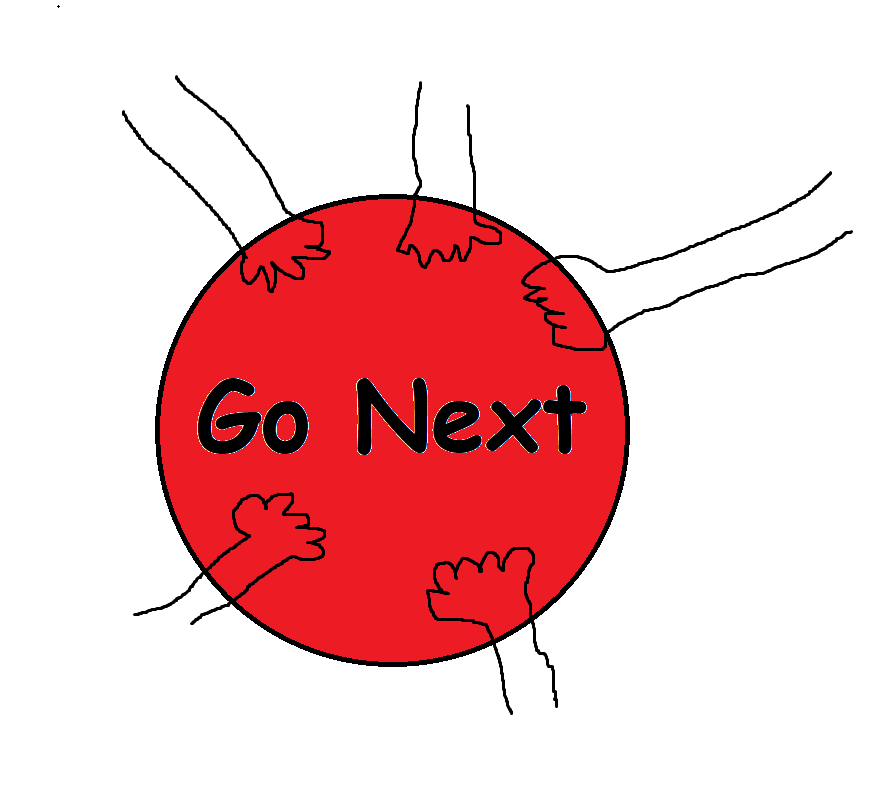
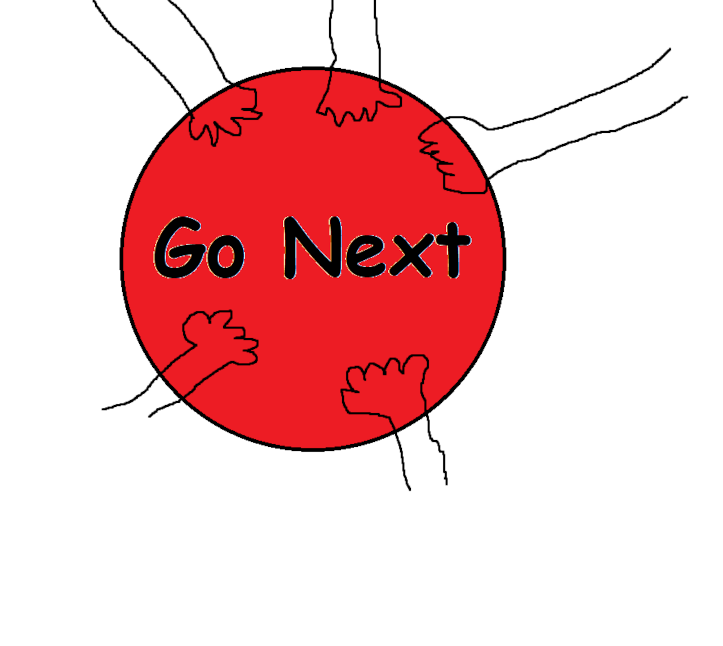
fix images to properly show fully on click and carosuel works for both sections

diff --git a/src/components/skin-carousel/skins.ts b/src/components/skin-carousel/skins.ts
@@ -1,5 +1,6 @@
-import { champPortrait } from "@/assets/self-pics";
+import { champPortrait, thinker } from "@/assets/self-pics";
 import { beachDay, rengar, vexed, elo, goNext } from "@/assets/art";
+import { goGopher, javaLogo, pythonLogo } from "@/assets/skills";
 
 export interface Skin {
   skinName: string;
@@ -9,15 +10,16 @@ export interface Skin {
 export const defaultSkin: Skin = { skinName: "Paul", skinImg: champPortrait };
 
 export const artSkins: Skin[] = [
-  { skinName: "goGopher", skinImg: goNext },
-  { skinName: "Sel", skinImg: rengar },
-  { skinName: "ts", skinImg: vexed },
+  { skinName: "Go Next", skinImg: goNext },
+  { skinName: "Delete Yuumi", skinImg: rengar },
+  { skinName: "Vexed", skinImg: vexed },
   { skinName: "Paul", skinImg: champPortrait },
-  { skinName: "java", skinImg: elo },
-  { skinName: "JavaScript", skinImg: beachDay },
+  { skinName: "The Cycle of League", skinImg: elo },
+  { skinName: "Beach Party", skinImg: beachDay },
 ];
 export const portraitSkins: Skin[] = [
-  { skinName: "Paul", skinImg: champPortrait },
-  { skinName: "java", skinImg: elo },
-  { skinName: "JavaScript", skinImg: beachDay },
+  { skinName: "In a Japanese Cafe", skinImg: thinker },
+  { skinName: "In a cafe", skinImg: goGopher },
+  { skinName: "In a ca", skinImg: pythonLogo },
+  { skinName: "In a cae", skinImg: javaLogo },
 ];

diff --git a/src/components/skin-carousel/index.tsx b/src/components/skin-carousel/index.tsx
@@ -33,6 +33,7 @@ export default function SkinCarousel() {
             }`}
             onClick={() => {
               api?.scrollTo(idx);
+              setSkin(skinArr[idx]);
             }}>
             <img
               src={skin.skinImg}
@@ -49,19 +50,29 @@ export default function SkinCarousel() {
       </>
     );
   };
-  useEffect(() => setSkin(defaultSkin), []);
-
   useEffect(() => {
     if (!api) return;
     const skinArr = getSkinArr();
-    const middle = Math.ceil(skinArr.length / 2);
-    api.scrollTo(middle);
+    const middle = Math.floor(skinArr.length / 2);
+    api?.scrollTo(middle);
 
-    api.on("select", () => {
+    setSkin(skinArr[middle]);
+  }, [carouselView, api]);
+  useEffect(() => {
+    if (!api) return;
+
+    const handler = () => {
       const currentSlide = api.selectedScrollSnap();
-      setSkin(artSkins[currentSlide]);
-    });
-  }, [api]);
+      const skinArr = getSkinArr();
+      setSkin(skinArr[currentSlide]);
+    };
+
+    handler();
+    api.on("select", handler);
+    return () => {
+      api.off("select", handler);
+    };
+  }, [api, carouselView]);
   return (
     <div className="w-[39.5em] h-full flex flex-col gap-4 items-center justify-end text-white">
       <div className="flex items-center gap-2 mr-7 ">

diff --git a/src/atoms/chatAtom.ts b/src/atoms/chatAtom.ts
@@ -53,6 +53,16 @@ export const initialChatScript: ScriptedChat[] = [
     },
     delay: 5000,
   },
+  {
+    type: "user",
+    username: "Paul Vinueza",
+    message: {
+      type: "guide",
+      content: "Try typing in the chat!",
+      highlight: "",
+    },
+    delay: 10000,
+  },
 ];
 
 export const chatAtom = atom<Chat[]>([]);

diff --git a/src/atoms/queueAtom.ts b/src/atoms/queueAtom.ts
@@ -1,4 +1,4 @@
 import { atom } from "jotai";
 
-export const audioModalAtom = atom<boolean>(true);
-export const acceptedAtom = atom<boolean>(true);
+export const audioModalAtom = atom<boolean>(false);
+export const acceptedAtom = atom<boolean>(false);
